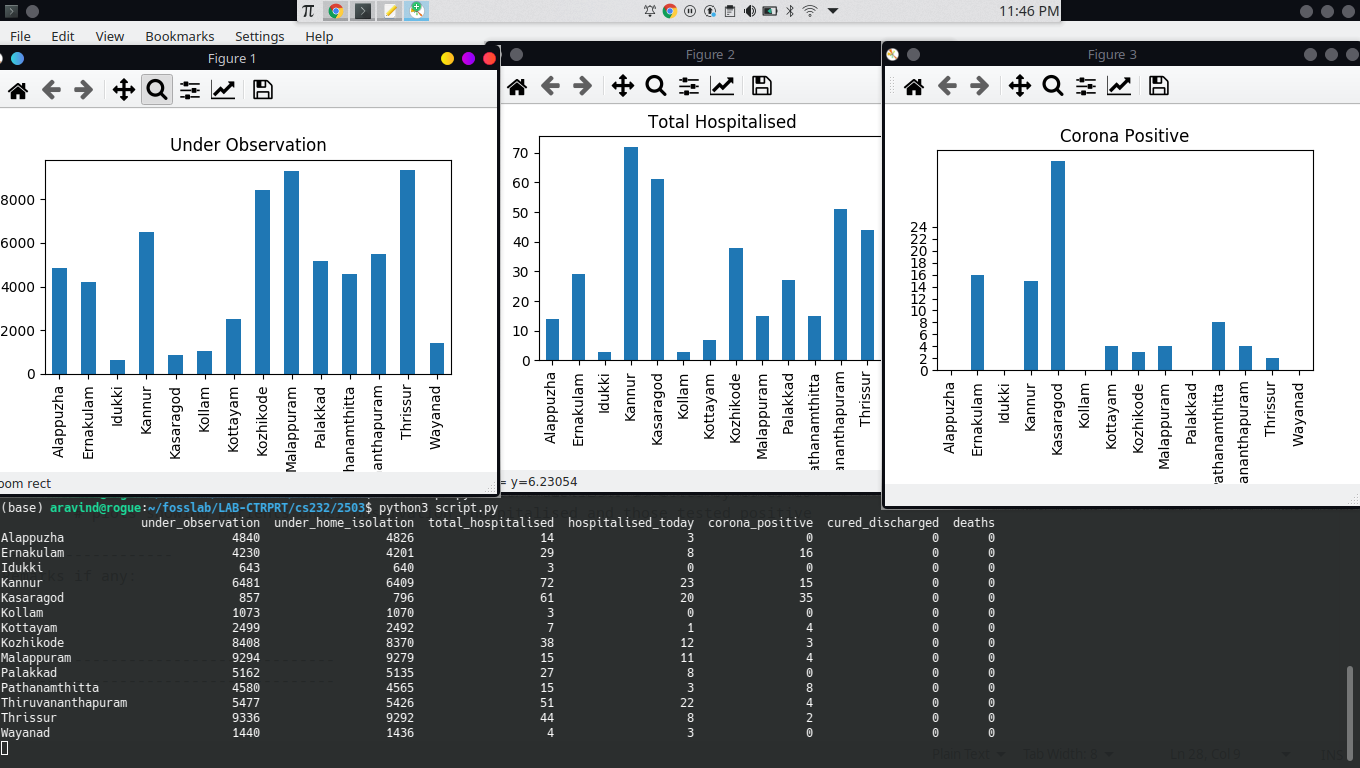
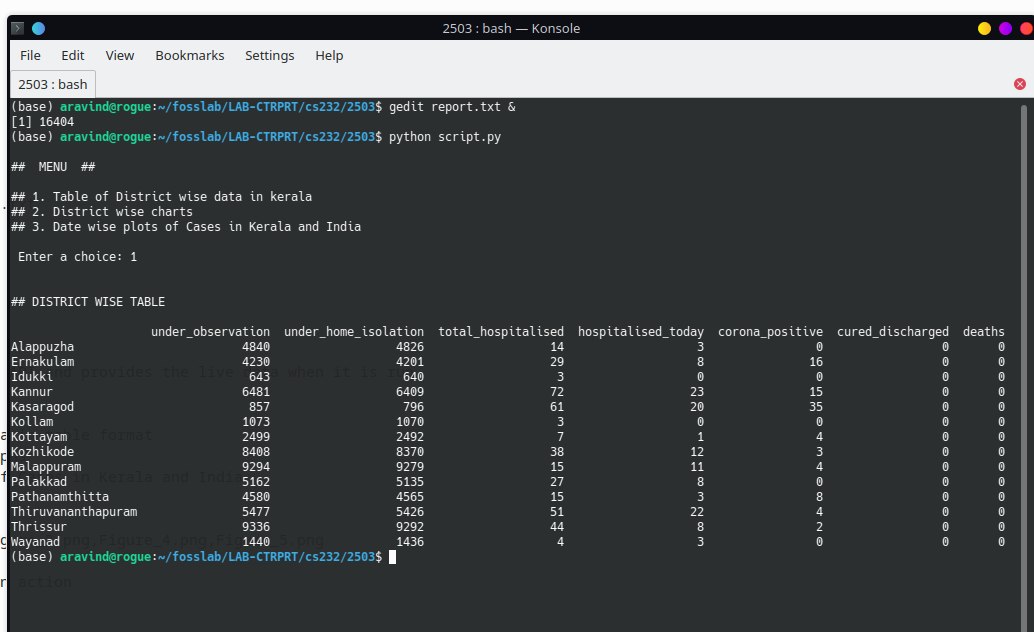
Added Menu and Date wise Plots

diff --git a/2503/script.py b/2503/script.py
@@ -12,11 +12,34 @@ import matplotlib.pyplot as plt
 
 # CONSUMING THE API FROM coronasafe.network to get live data
 # a GET request is sent to the url which returns a json response
+# This data is provided by the ministry of Health Affairs, India
+#
+
 
 url = "https://volunteer.coronasafe.network/api/reports"
 r = requests.get(url)
 data = r.json()
 data = data['kerala']
+
+
+url = "https://api.rootnet.in/covid19-in/stats/daily"
+r = requests.get(url)
+daily_data = r.json()
+daily_data = daily_data['data']
+
+#  Formated raw json data to lists
+#
+
+dates = []
+totalcases = []
+keralacases = []
+
+for x in daily_data:
+    dates.append(x['day'])
+    totalcases.append(x['summary']['total'])
+    for y in x['regional']:
+        if y['loc'] == 'Kerala':
+            keralacases.append(y['confirmedCasesIndian'])
 
 
 # The response is cleaned and formatted into NumPy arrays of Required shape
@@ -38,18 +61,46 @@ district_data = np.array(district_data)
 district_data = district_data.reshape((14, 7))
 
 df = pd.DataFrame(district_data, index=districts, columns=labels)
-print(df)
 
-# Visualised the Data
-#
 
-plt.figure()
-df.iloc[:, 0].plot(kind='bar', title='Under Observation')
+# MENU
+# and
+# Visualisations using various libraries
 
-plt.figure()
-df.iloc[:, 2].plot(kind='bar', title='Total Hospitalised')
 
-plt.figure()
-df.iloc[:, 4].plot(kind='bar', title='Corona Positive')
+print('\n##  MENU  ##\n')
+print('## 1. Table of District wise data in kerala ')
+print('## 2. District wise charts')
+print('## 3. Date wise plots of Cases in Kerala and India')
 
-plt.show()
+ch = int(input('\n Enter a choice: '))
+
+print('\n')
+if ch == 1:
+    print('## DISTRICT WISE TABLE \n')
+    print(df)
+
+elif(ch == 2):
+    plt.figure()
+    df.iloc[:, 0].plot(kind='bar', title='Under Observation')
+
+    plt.figure()
+    df.iloc[:, 2].plot(kind='bar', title='Total Hospitalised')
+
+    plt.figure()
+    df.iloc[:, 4].plot(kind='bar', title='Corona Positive')
+
+    plt.show()
+
+elif(ch == 3):
+    plt.figure()
+    plt.title('TOTAL CASES IN INDIA [date wise]')
+    plt.plot(np.arange(start=10, stop=10 + len(dates)), totalcases)
+
+    plt.figure()
+    plt.title('TOTAL CASES IN KERALA [date wise]')
+    plt.plot(np.arange(start=10, stop=10 + len(dates)), keralacases)
+    plt.show()
+
+else:
+    print('Wrong Choice')
